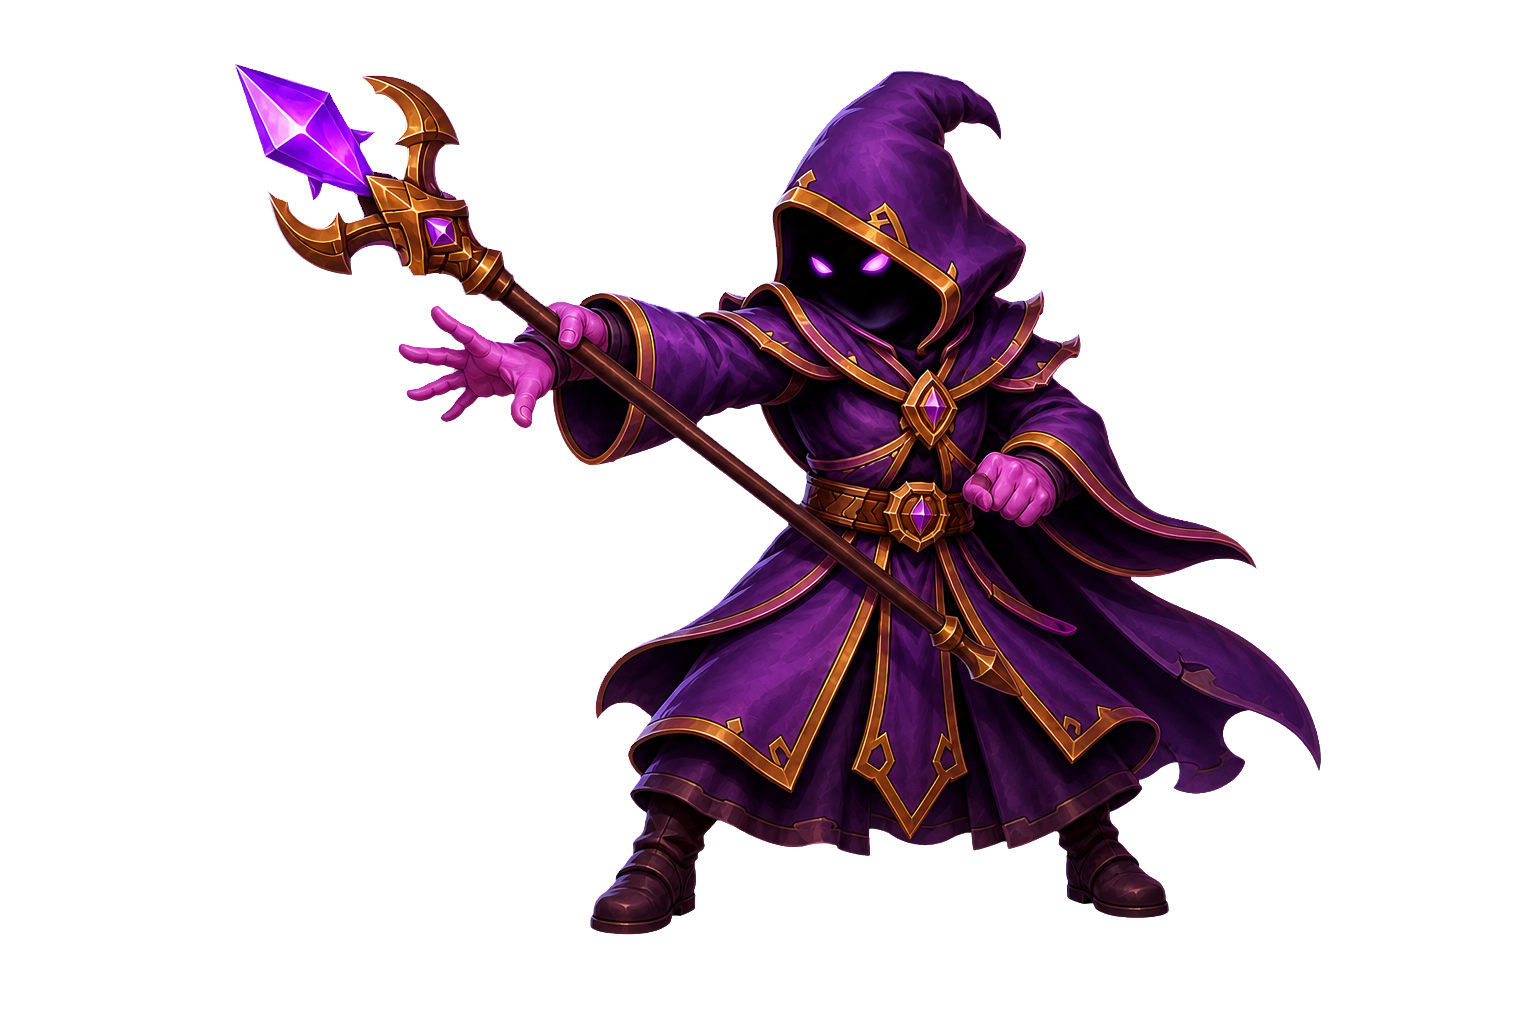
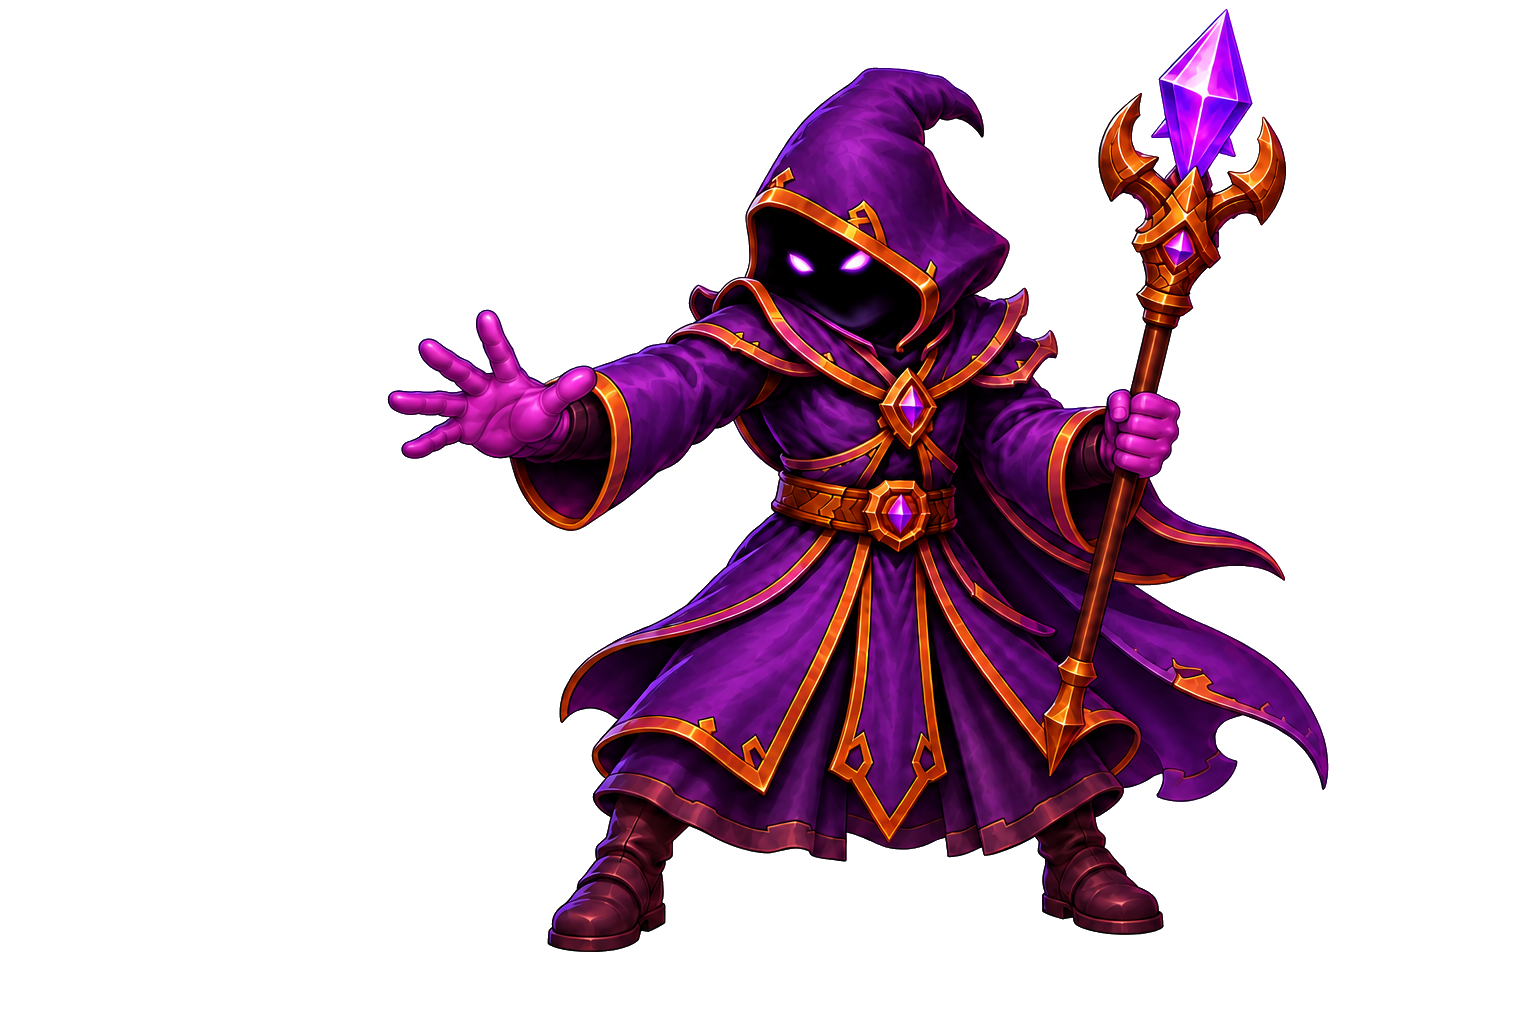
Corrige Zafir, ilustra juramentos y asegura audio final sin conexion

Changed region(s): [[0.1562, 0.0, 0.875, 0.9375]]

diff --git a/js/azrak-world.js b/js/azrak-world.js
@@ -31,7 +31,8 @@
     ['LUZ', 'Nos permite ver y aleja la oscuridad.'], ['VALOR', 'Nos ayuda a actuar aunque sintamos miedo.'],
     ['ESPERANZA', 'Confianza en que el futuro puede ser mejor.'], ['LIBERTAD', 'Poder elegir el propio camino.'],
   ].map(([palabra, pista]) => ({ palabra, pista }));
-  const symbols = ['🌿', '☀', '☁', '❄'];
+  const symbols = ['Hoja', 'Sol', 'Nube', 'Copo de nieve'];
+  const oathSymbolsImage = 'assets/images/ui/juramentos-medallones-v1.png';
   function mountScene(container, mission, completed = 0) {
     container.querySelectorAll('.vida-azrak').forEach(element => element.remove());
     container.dataset.misionAzrak = mission < 0 ? '' : String(mission + 1);
@@ -269,11 +270,28 @@
       closeRunes = mountHiddenRunes(container, board, message, makeButton, finish, sound);
     } else if (type === 'sellos-azrak') {
       const values = [0, 1, 2, 3];
+      board.classList.add('tablero-juramentos');
       ['Norte', 'Este', 'Sur', 'Oeste'].forEach((direction, index) => {
-        makeButton(`${direction}: ${symbols[values[index]]}`, button => {
+        const button = makeButton('', () => {
           values[index] = (values[index] + 1) % symbols.length;
-          button.textContent = `${direction}: ${symbols[values[index]]}`;
+          renderSymbol();
         });
+        button.className = 'sello-juramento';
+        const heading = document.createElement('strong'); heading.textContent = direction;
+        const frame = document.createElement('span'); frame.className = 'juramento-medallon';
+        frame.setAttribute('aria-hidden', 'true');
+        const image = document.createElement('img'); image.src = oathSymbolsImage;
+        image.alt = ''; image.draggable = false; frame.append(image);
+        const label = document.createElement('span'); label.className = 'juramento-simbolo';
+        button.append(heading, frame, label);
+        function renderSymbol() {
+          const value = values[index];
+          image.style.left = `${-(value % 2) * 100}%`;
+          image.style.top = `${-Math.floor(value / 2) * 100}%`;
+          label.textContent = symbols[value];
+          button.setAttribute('aria-label', `${direction}: ${symbols[value]}. Cambiar símbolo`);
+        }
+        renderSymbol();
       });
       const clues = document.createElement('p'); clues.className = 'azrak-puzzle-clues';
       clues.textContent = 'El cielo guía al norte. El bosque recibe el amanecer al este. El invierno espera al sur. El sol descansa al oeste.';
@@ -529,32 +547,82 @@
     const stage = layer.querySelector('.azrak-cinema-stage');
     const [pause, mute, skip] = layer.querySelectorAll('button');
     const focusBefore = document.activeElement;
-    let skipped = false, paused = false, currentTrack = null, muted = false;
+    let skipped = false, paused = false, currentTrack = null, muted = false, musicReady = false, closed = false;
     let viewing = { waiting: false, destroy() {} };
-    const suspended = () => paused || document.hidden || viewing.waiting;
+    const controlsSuspended = () => paused || document.hidden || viewing.waiting;
+    const musicWaiting = () => Boolean(currentTrack && !muted && !musicReady);
+    const suspended = () => controlsSuspended() || musicWaiting();
+    const musicNotice = document.createElement('div'); musicNotice.className = 'azrak-music-notice'; musicNotice.hidden = true;
+    musicNotice.innerHTML = '<p role="status">Preparando la música…</p><button type="button">Activar música</button><button type="button">Continuar sin música</button>';
+    layer.append(musicNotice);
+    const [retryMusic, withoutMusic] = musicNotice.querySelectorAll('button');
+    const musicStatus = musicNotice.querySelector('p');
+    const updateMusicState = () => {
+      if (closed) return;
+      musicNotice.hidden = !musicWaiting() || viewing.waiting;
+      layer.classList.toggle('pausada', suspended());
+    };
 
     const tracks = kind === 'final' ? Object.fromEntries(Object.entries(finalMusic).map(([key, spec]) => {
       const audio = new Audio(spec.src); audio.preload = 'auto'; audio.volume = .65; audio.loop = Boolean(spec.loop);
+      audio.addEventListener('playing', () => {
+        if (closed || currentTrack !== audio) return;
+        musicReady = true; mute.textContent = muted ? 'Activar música' : 'Silenciar'; updateMusicState();
+      });
+      audio.addEventListener('waiting', () => {
+        if (closed || currentTrack !== audio) return;
+        musicReady = false; musicStatus.textContent = 'Preparando la música…'; updateMusicState();
+      });
+      audio.addEventListener('error', () => {
+        if (closed || currentTrack !== audio) return;
+        musicReady = false; musicStatus.textContent = 'No se pudo cargar la música. Podés reintentar o continuar sin ella.'; updateMusicState();
+      });
       return [key, audio];
     })) : {};
     mute.hidden = kind !== 'final';
-    const playMusic = () => currentTrack?.play().catch(() => { mute.textContent = 'Activar música'; });
+    const playMusic = () => {
+      const audio = currentTrack;
+      if (!audio || closed) return;
+      audio.play().catch(error => {
+        if (closed || currentTrack !== audio || controlsSuspended() || error.name === 'AbortError') return;
+        musicReady = false; mute.textContent = 'Activar música';
+        musicStatus.textContent = error.name === 'NotAllowedError'
+          ? 'Tocá Activar música para comenzar con sonido.'
+          : 'No se pudo reproducir la música. Podés reintentar o continuar sin ella.';
+        updateMusicState();
+      });
+    };
     const syncPause = () => {
-      layer.classList.toggle('pausada', suspended());
-      if (suspended()) currentTrack?.pause();
+      if (controlsSuspended() && currentTrack) musicReady = false;
+      updateMusicState();
+      if (controlsSuspended()) currentTrack?.pause();
       else if (currentTrack) playMusic();
+    };
+    retryMusic.onclick = () => {
+      muted = false; musicReady = false;
+      Object.values(tracks).forEach(audio => { audio.muted = false; });
+      if (currentTrack?.error) currentTrack.load();
+      musicStatus.textContent = 'Preparando la música…';
+      if (!controlsSuspended()) playMusic();
+      updateMusicState();
+    };
+    withoutMusic.onclick = () => {
+      muted = true;
+      Object.values(tracks).forEach(audio => { audio.muted = true; });
+      mute.textContent = 'Activar música'; updateMusicState();
     };
     mute.onclick = () => {
       muted = mute.textContent === 'Activar música' ? false : !muted;
       Object.values(tracks).forEach(audio => { audio.muted = muted; });
       mute.textContent = muted ? 'Activar música' : 'Silenciar';
-      if (!suspended()) playMusic();
+      updateMusicState();
+      if (!controlsSuspended()) playMusic();
     };
     const onKey = event => {
       if (event.key === 'Escape') { skipped = true; event.preventDefault(); }
       if (event.key === 'Tab') {
         event.preventDefault();
-        const buttons = [...layer.querySelectorAll(viewing.waiting ? '.azrak-rotate-guide button' : 'nav button')].filter(button => !button.hidden);
+        const buttons = [...layer.querySelectorAll(viewing.waiting ? '.azrak-rotate-guide button' : 'button')].filter(button => !button.hidden && button.getClientRects().length);
         const at = buttons.indexOf(document.activeElement);
         buttons[(at + (event.shiftKey ? buttons.length - 1 : 1)) % buttons.length].focus();
       }
@@ -580,14 +648,19 @@
       let phase = null, phaseStart = 0, phaseOffset = 0;
       for (const [index, shot] of shots.entries()) {
         if (skipped) break;
-        if (shot.intertitle || shot.silent) { currentTrack?.pause(); currentTrack = null; phase = null; }
+        if (shot.intertitle || shot.silent) { currentTrack?.pause(); currentTrack = null; phase = null; updateMusicState(); }
         if (shot.music) {
           phase = shot.music;
           phaseOffset = phase === 'ending' ? timing.endingStart : 0;
           phaseStart = timing ? timing.durations.slice(0, index).reduce((sum, ms) => sum + ms, 0) : 0;
           currentTrack?.pause();
           currentTrack = tracks[phase];
-          if (currentTrack) { currentTrack.currentTime = phaseOffset / 1000; currentTrack.volume = phase === 'ending' ? 0 : .65; if (!suspended()) playMusic(); }
+          musicReady = false; musicStatus.textContent = 'Preparando la música…';
+          if (currentTrack) { currentTrack.currentTime = phaseOffset / 1000; currentTrack.volume = phase === 'ending' ? 0 : .65; if (!controlsSuspended()) playMusic(); }
+          updateMusicState();
+          // A track must actually start before its first scene, unless the player chooses silence.
+          while (suspended() && !skipped) await new Promise(resolve => setTimeout(resolve, 100));
+          if (skipped) break;
         }
         const duration = timing ? timing.durations[index] : (shot.duration || 7200);
         layer.dataset.shot = shot.key;
@@ -642,7 +715,7 @@
             elapsed += delta;
             if (timing && currentTrack) {
               const shotStart = timing.durations.slice(0, index).reduce((sum, ms) => sum + ms, 0);
-              // Anchor each movement to its own audio clock; failed audio uses elapsed time.
+              // Only an explicit choice to continue without music permits the wall clock fallback.
               if (!currentTrack.paused && !currentTrack.ended && currentTrack.readyState >= 2 && !currentTrack.seeking) {
                 const shotStart = timing.durations.slice(0, index).reduce((sum, ms) => sum + ms, 0);
                 elapsed = Math.max(0, currentTrack.currentTime * 1000 - phaseOffset + phaseStart - shotStart);
@@ -656,6 +729,7 @@
         }
       }
     } finally {
+      closed = true;
       viewing.destroy();
       Object.values(tracks).forEach(audio => { audio.pause(); audio.currentTime = 0; audio.removeAttribute('src'); audio.load(); });
       document.removeEventListener('keydown', onKey);

diff --git a/css/azrak-world.css b/css/azrak-world.css
@@ -50,6 +50,24 @@
 .puzzle-azrak button.runa-encendida:disabled { opacity: 1; }
 .azrak-puzzle-clues { border-left: 3px solid #efb96e; padding: 12px; background: #ffffff0a; text-align: left; line-height: 1.6; }
 .azrak-puzzle-status { min-height: 2.7em; line-height: 1.4; }
+.azrak-puzzle-board.tablero-juramentos { grid-template-columns: repeat(4, minmax(0, 1fr)); max-width: 650px; gap: 10px; }
+.tablero-juramentos .sello-juramento { display: flex; flex-direction: column; align-items: center; gap: 5px; min-width: 0; padding: 8px; font-size: 1rem; border-color: #977449; background: #1d1328; }
+.sello-juramento strong { color: #ffe0a0; font-size: 1rem; }
+.juramento-medallon { display: block; position: relative; width: 100%; aspect-ratio: 1; overflow: hidden; border-radius: 12px; pointer-events: none; }
+.juramento-medallon img { position: absolute; width: 200%; height: 200%; max-width: none; object-fit: fill; user-select: none; }
+.juramento-simbolo { font-size: .8rem; line-height: 1.3; }
+@media (hover: hover) { .tablero-juramentos .sello-juramento:hover { border-color: #ffe0a0; background: #35233f; } }
+@media (max-width: 600px) and (orientation: portrait) {
+  .azrak-puzzle-board.tablero-juramentos { grid-template-columns: repeat(2, minmax(0, 1fr)); max-width: 330px; }
+  .sello-juramento .juramento-medallon { width: min(100%, 105px); }
+}
+@media (max-height: 600px) and (orientation: landscape) {
+  .azrak-puzzle-board.tablero-juramentos { margin: 6px auto; max-width: 480px; }
+  .tablero-juramentos .sello-juramento { padding: 4px; gap: 2px; }
+  .sello-juramento .juramento-medallon { width: min(100%, 72px); }
+  .puzzle-azrak:has(.tablero-juramentos) .azrak-puzzle-clues { margin: 4px 0; padding: 6px 10px; line-height: 1.3; }
+  .puzzle-azrak:has(.tablero-juramentos) .azrak-puzzle-status { margin: 6px 0; min-height: 0; }
+}
 .runas-visor { width:100%; aspect-ratio:3/2; max-height:48vh; overflow:auto; overscroll-behavior:contain; touch-action:none; border:2px solid #92704f; border-radius:12px; background:#140d20; cursor:grab; }
 .runas-visor:active { cursor:grabbing; }
 .runas-visor:focus-visible { outline:3px solid #ffe09c; }
@@ -79,6 +97,11 @@
 @media(max-width:600px) { .puzzle-azrak:has(.runas-visor) { padding:4px; box-sizing:border-box; } .runas-objetivos { gap:4px; } }
 .azrak-puzzle-board.tablero-eclipse { grid-template-columns: repeat(3, 1fr); max-width: 330px; }
 .cinematica-azrak { position: fixed; inset: 0; z-index: 20000; background: #09060e; color: #fff1d9; display: grid; grid-template-rows: minmax(0, 1fr) auto; font-family: system-ui, sans-serif; overflow: hidden; }
+.azrak-music-notice { position: absolute; z-index: 30; inset: 0 0 65px; display: flex; flex-wrap: wrap; align-content: center; justify-content: center; gap: 12px; padding: 20px; background: #09060eed; text-align: center; }
+.azrak-music-notice[hidden] { display: none; }
+.azrak-music-notice p { flex: 0 0 100%; }
+.azrak-music-notice button { min-height: 44px; padding: 10px 16px; border: 1px solid #cba060; border-radius: 10px; background: #302039; color: #fff1d9; font: inherit; cursor: pointer; }
+.azrak-music-notice button:focus-visible { outline: 3px solid #ffe09c; outline-offset: 3px; }
 .azrak-cinema-stage { position: relative; overflow: hidden; background: #261629 url('../assets/images/fondos/reino-azrak/trono-v1.png') center/cover; isolation: isolate; }
 .azrak-cinema-stage::after { content: ""; position: absolute; inset: 0; pointer-events: none; background: linear-gradient(#0005, transparent 35%, transparent 75%, #09060e); z-index: 6; }
 .azrak-cinema-actor { position: absolute; left: var(--x); top: var(--y); height: var(--size); width: auto; max-width: 48%; object-fit: contain; transform: translate(-50%, -100%); transform-origin: center bottom; filter: drop-shadow(0 12px 10px #0008); z-index: 2; animation: azrakLlegada .65s both; }

diff --git a/sw.js b/sw.js
@@ -1,5 +1,5 @@
 const CACHE_PREFIX = "aventura-palabras-runtime-";
-const CACHE_NAME = `${CACHE_PREFIX}v275`;
+const CACHE_NAME = `${CACHE_PREFIX}v278`;
 const LEGACY_CACHE_NAMES = new Set([
   `${CACHE_PREFIX}v227`,
   `${CACHE_PREFIX}v226`,
@@ -182,6 +182,7 @@ const RECURSOS_MODOS_LOCALES = [
   "./assets/images/personajes/versus/bumeran-explorador.png",
   "./assets/images/personajes/versus/explorador-trampa-ancestral.png",
   "./assets/images/personajes/versus/mago-ataque.png",
+  "./assets/images/ui/juramentos-medallones-v1.png",
   "./assets/images/personajes/versus/bola-fuego-mago.png",
   "./assets/images/personajes/versus/mago-atrapado-trampa.png",
   "./assets/images/personajes/versus/mago-eclipse-violeta.png",
@@ -579,6 +580,8 @@ const CORE_ASSETS = [
  * copian localmente durante la migración, sin volver a descargarlos.
  */
 const ASSET_REVISIONS = {
+  "./assets/images/ui/juramentos-medallones-v1.png": "20260914-juramentos-ilustrados-1",
+  "./assets/images/personajes/versus/mago-ataque.png": "20260914-zafir-mano-abierta-1",
   "./css/world-word-hazards.css": "20260914-jaula-fuego",
   "./js/world-word-hazards.js": "20260914-jaula-fuego",
   "./": "20260914-jaula-fuego",
@@ -944,9 +947,40 @@ async function responderDesdeRed(request) {
   }
 }
 
+async function responderRangoCache(request, response) {
+  if (response.status !== 200) return fetch(request);
+  const range = request.headers.get("range");
+  const match = /^bytes=(\d*)-(\d*)$/i.exec(range.trim());
+  // An unsupported/malformed range may legally receive the complete resource.
+  if (!match || (!match[1] && !match[2])) return response;
+  const data = await response.arrayBuffer();
+  const size = data.byteLength;
+  const start = match[1] ? Number(match[1]) : Math.max(0, size - Number(match[2]));
+  const end = match[1] && match[2] ? Math.min(Number(match[2]), size - 1) : size - 1;
+  const headers = new Headers(response.headers);
+  headers.delete("content-encoding");
+  headers.set("Accept-Ranges", "bytes");
+  if (!Number.isSafeInteger(start) || !Number.isSafeInteger(end) || start > end || start >= size) {
+    headers.set("Content-Range", `bytes */${size}`);
+    headers.set("Content-Length", "0");
+    return new Response(null, { status: 416, headers });
+  }
+  headers.set("Content-Range", `bytes ${start}-${end}/${size}`);
+  headers.set("Content-Length", String(end - start + 1));
+  return new Response(data.slice(start, end + 1), { status: 206, headers });
+}
+
 async function responderRecursoEstatico(event) {
   const { request } = event;
   const cache = await caches.open(CACHE_NAME);
+  if (request.headers.has("range")) {
+    const headers = new Headers(request.headers); headers.delete("range");
+    const completeRequest = new Request(request, { headers });
+    const completeResponse = await cache.match(completeRequest, { ignoreSearch: true });
+    if (completeResponse) return responderRangoCache(request, completeResponse);
+    // Never store a partial response in place of the complete installed file.
+    return fetch(request);
+  }
   const cachedResponse = await cache.match(request, { ignoreSearch: true });
   // Keep each installed release consistent instead of mixing its code with
   // background downloads from the next release while installation is pending.
@@ -977,7 +1011,6 @@ self.addEventListener("fetch", (event) => {
   if (
     request.method !== "GET"
     || url.origin !== self.location.origin
-    || request.headers.has("range")
   ) {
     return;
   }
